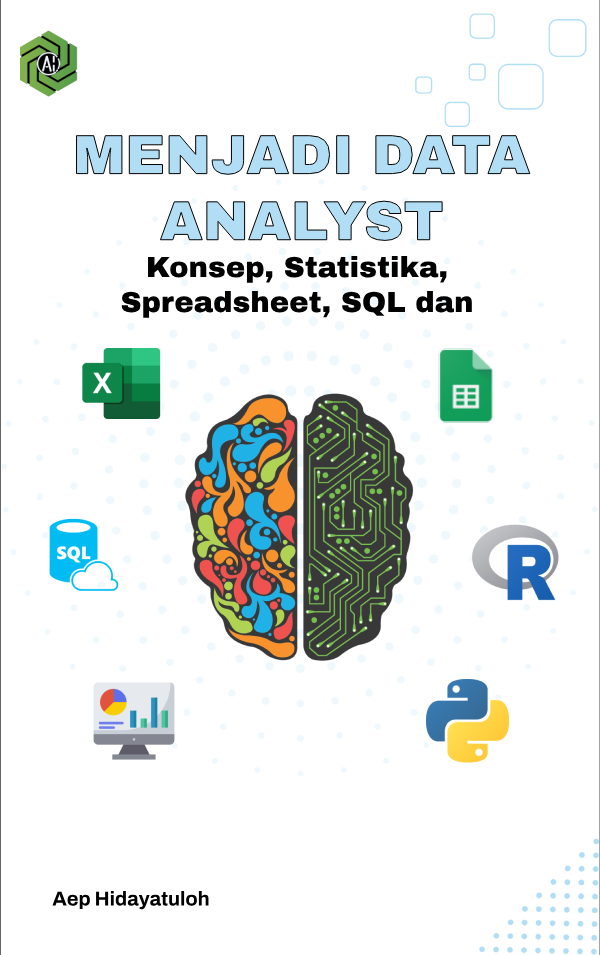
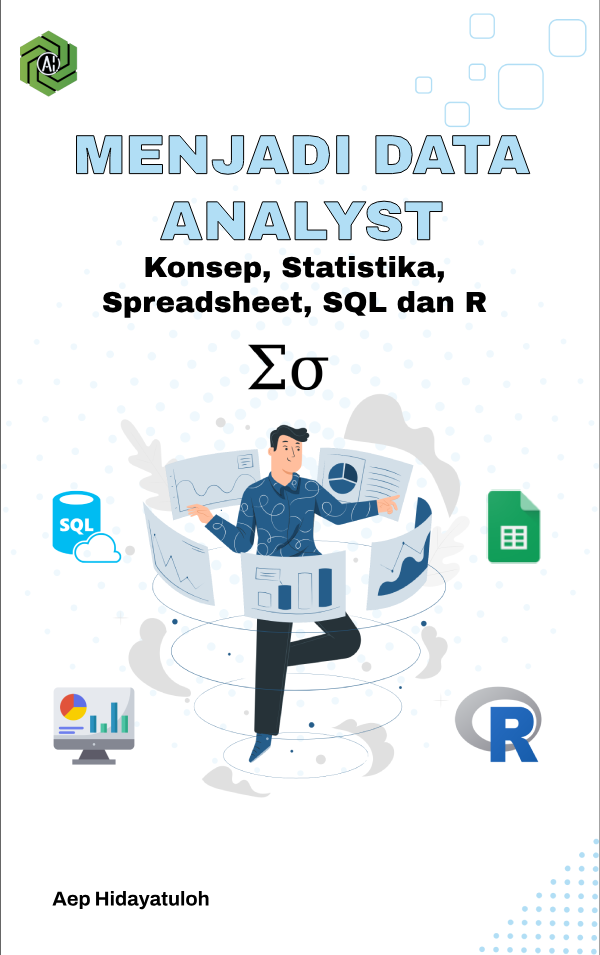
upd remove python dan ganti cover

diff --git a/_book/cover-penutup.html b/_book/cover-penutup.html
@@ -6,10 +6,8 @@
 
 <meta name="viewport" content="width=device-width, initial-scale=1.0, user-scalable=yes">
 
-<meta name="author" content="Aep Hidayatuloh">
-<meta name="dcterms.date" content="2024-07-26">
 
-<title>Menjadi Data Analyst</title>
+<title>cover-penutup – Menjadi Data Analyst</title>
 <style>
 code{white-space: pre-wrap;}
 span.smallcaps{font-variant: small-caps;}
@@ -32,7 +30,7 @@ ul.task-list li input[type="checkbox"] {
 <script src="site_libs/quarto-search/fuse.min.js"></script>
 <script src="site_libs/quarto-search/quarto-search.js"></script>
 <meta name="quarto:offset" content="./">
-<link href="./dasar.html" rel="next">
+<link href="./penulis.html" rel="prev">
 <link href="./icon.png" rel="icon" type="image/png">
 <script src="site_libs/quarto-html/quarto.js"></script>
 <script src="site_libs/quarto-html/popper.min.js"></script>
@@ -75,7 +73,7 @@ ul.task-list li input[type="checkbox"] {
 <link rel="stylesheet" href="style.css">
 </head>
 
-<body class="nav-sidebar floating">
+<body class="nav-sidebar floating fullcontent">
 
 <div id="quarto-search-results"></div>
   <header id="quarto-header" class="headroom fixed-top">
@@ -84,7 +82,7 @@ ul.task-list li input[type="checkbox"] {
       <button type="button" class="quarto-btn-toggle btn" data-bs-toggle="collapse" role="button" data-bs-target=".quarto-sidebar-collapse-item" aria-controls="quarto-sidebar" aria-expanded="false" aria-label="Toggle sidebar navigation" onclick="if (window.quartoToggleHeadroom) { window.quartoToggleHeadroom(); }">
         <i class="bi bi-layout-text-sidebar-reverse"></i>
       </button>
-        <nav class="quarto-page-breadcrumbs" aria-label="breadcrumb"><ol class="breadcrumb"><li class="breadcrumb-item"><a href="./index.html">Pengantar</a></li></ol></nav>
+        <nav class="quarto-page-breadcrumbs" aria-label="breadcrumb"><ol class="breadcrumb"><li class="breadcrumb-item"><a href="./cover-penutup.html"><span class="chapter-number">18</span>&nbsp; <span class="chapter-title">Penutup</span></a></li></ol></nav>
         <a class="flex-grow-1" role="navigation" data-bs-toggle="collapse" data-bs-target=".quarto-sidebar-collapse-item" aria-controls="quarto-sidebar" aria-expanded="false" aria-label="Toggle sidebar navigation" onclick="if (window.quartoToggleHeadroom) { window.quartoToggleHeadroom(); }">      
         </a>
       <button type="button" class="btn quarto-search-button" aria-label="Search" onclick="window.quartoOpenSearch();">
@@ -115,7 +113,7 @@ ul.task-list li input[type="checkbox"] {
   </li>
         <li class="sidebar-item">
   <div class="sidebar-item-container"> 
-  <a href="./index.html" class="sidebar-item-text sidebar-link active">
+  <a href="./index.html" class="sidebar-item-text sidebar-link">
  <span class="menu-text">Pengantar</span></a>
   </div>
 </li>
@@ -301,8 +299,8 @@ ul.task-list li input[type="checkbox"] {
 </li>
         <li class="sidebar-item">
   <div class="sidebar-item-container"> 
-  <a href="./cover-penutup.html" class="sidebar-item-text sidebar-link">
- <span class="menu-text">Penutup</span></a>
+  <a href="./cover-penutup.html" class="sidebar-item-text sidebar-link active">
+ <span class="menu-text"><span class="chapter-number">18</span>&nbsp; <span class="chapter-title">Penutup</span></span></a>
   </div>
 </li>
     </ul>
@@ -310,61 +308,18 @@ ul.task-list li input[type="checkbox"] {
 </nav>
 <div id="quarto-sidebar-glass" class="quarto-sidebar-collapse-item" data-bs-toggle="collapse" data-bs-target=".quarto-sidebar-collapse-item"></div>
 <!-- margin-sidebar -->
-    <div id="quarto-margin-sidebar" class="sidebar margin-sidebar">
-        <nav id="TOC" role="doc-toc" class="toc-active">
-    <h2 id="toc-title">Table of contents</h2>
-   
-  <ul>
-  <li><a href="#pengantar" id="toc-pengantar" class="nav-link active" data-scroll-target="#pengantar">Pengantar</a></li>
-  </ul>
-</nav>
-    </div>
+    
 <!-- main -->
 <main class="content" id="quarto-document-content">
 
-<header id="title-block-header" class="quarto-title-block default">
-<div class="quarto-title">
-<h1 class="title">Menjadi Data Analyst</h1>
-<p class="subtitle lead">Konsep, Statistika, Spreadsheet, SQL dan R</p>
-</div>
 
 
 
-<div class="quarto-title-meta">
-
-    <div>
-    <div class="quarto-title-meta-heading">Author</div>
-    <div class="quarto-title-meta-contents">
-             <p>Aep Hidayatuloh </p>
-          </div>
-  </div>
-    
-    <div>
-    <div class="quarto-title-meta-heading">Published</div>
-    <div class="quarto-title-meta-contents">
-      <p class="date">26 Jul 2024</p>
-    </div>
-  </div>
-  
-    
-  </div>
-  
+<p>Buku ini disusun sedemikian rupa sehingga memudahkan bagi Anda yang ingin mulai mempelajari tentang Data Analytics dan menjadi seorang Data Analyst. Buku ini akan menjadi panduan yang lengkap.</p>
+<p>Di awal buku ini Anda akan diajak untuk memahami cara berpikir seorang data analyst. Tentu saja Anda tidak bisa lepas dari kewajiban untuk memahami tentang Statistika sebagai fondasi mutlak untuk menjadi seorang data analyst. Tapi tenang saja! Pembahasan Statistika dibuat sederhana agar mudah dipahami dan tetap dapat digunakan sebagai bekal Anda menjadi data analyst.</p>
+<p>Anda juga akan belajar menggunakan Spreadsheet sebagai alat bantu paling fundamental ketika bekerja dengan data, memahami SQL sebagai alat untuk berkomunikasi dengan data di dalam database, menggunakan bahasa pemrograman sebagai alat yang lebih advance untuk data analysis dan cara membuat visualisasi untuk mengomunikasikan hasil analisis data yang Anda lakukan.</p>
 
 
-</header>
-
-
-
-<section id="pengantar" class="level1 unnumbered">
-<h1 class="unnumbered">Pengantar</h1><p><img src="cover.png" title="Menjadi Data Analyst" class="quarto-cover-image img-fluid"></p>
-<p>Data Analyst dan Data Scientist menjadi pekerjaan yang diinginkan banyak orang saat ini, terutama bagi lulusan baru dari universitas. Di Jobstreet tersedia <strong>lebih dari 9.000 lowongan pekerjaan dengan kata kunci “data”</strong>, termasuk data analyst, data entry, data scientist dan lain-lain dengan tingakat magang (<em>internship</em>), junior, senior hingga manager. Lowongan kerja dengan kata kunci “data analyst” sendiri ada lebih dari 1.000 lowongan pekerjaan.</p>
-<p>Mereka yang memang menempuh pendidikan yang berkaitan erat dengan data seperti Statistika dan Ilmu Komputer, atau yang tidak hubungannya sama sekali seperti lulusan Ilmu Hukum, Perikanan dan Kelautan, dan lain-lain yang ingin beralih karir menjadi data analyst atau data scientist mulai banyak bermunculan.</p>
-<p>Karena banyaknya keinginan dan kebutuhan akan pendidikan tentang data, banyak universitas atau kampus mulai mempertimbangkan atau bahkan sudah mulai untuk mengampu pendidikan yang berkaitan dengan bidang ini. Bahkan banyak lembaga penyedia pendidikan, training atau kursus yang menydiakan kesempatan bagi mereka yang ingin belajar untuk menjadi Data Analyst atau Data Scientist. Buku ini akan mengajak Anda untuk mulai memahami apa itu data analyst, kemampuan yang dibutuhkan dan disertai dengan contoh kasus dan teknis pengerjaannya yang akan menambah pemahaman dan kemampuan Anda untuk menjadi data analyst.</p>
-<p>Alat atau <em>Tools</em> yang akan sangat berguna dan biasanya digunakan dalam mengerjakan analisis data adalah Excel, SQL, dan terkadang juga menggunakan bahasa pemrograman. Bahasa Pemrograman yang biasanya digunakan dalam kegiatan analisis data adalah R atau Python. Oleh karena itu, buku ini akan mengajak Anda untuk mengenal lebih jauh tentang data analytics dan <em>tools</em> yang biasanya digunakan untuk menunjang aktivitas analisis data.</p>
-<p>Tentu saja penulis menyadari bahwa tulisan ini hanya berdasarkan pengetahuan dan pengalaman yang diketahui oleh penulis, shingga masih banyak kekurangan dan perlu perbaikan dalam berbagai hal. Jika Anda ingin berkontribusi pada tulisan ini, Anda dapat menjadi kontributor pada repository GitHub <a href="https://github.com/aephidayatuloh/data-analyst" class="uri">https://github.com/aephidayatuloh/data-analyst</a>.</p>
-
-
-</section>
 
 </main> <!-- /main -->
 <script id="quarto-html-after-body" type="application/javascript">
@@ -789,11 +744,11 @@ window.document.addEventListener("DOMContentLoaded", function (event) {
 </script>
 <nav class="page-navigation">
   <div class="nav-page nav-page-previous">
+      <a href="./penulis.html" class="pagination-link" aria-label="Tentang Penulis">
+        <i class="bi bi-arrow-left-short"></i> <span class="nav-page-text">Tentang Penulis</span>
+      </a>          
   </div>
   <div class="nav-page nav-page-next">
-      <a href="./dasar.html" class="pagination-link" aria-label="Bagian 1: Dasar Data Analytics">
-        <span class="nav-page-text">Bagian 1: Dasar Data Analytics</span> <i class="bi bi-arrow-right-short"></i>
-      </a>
   </div>
 </nav>
 </div> <!-- /content -->

diff --git a/_book/polapikir.html b/_book/polapikir.html
@@ -261,12 +261,6 @@ ul.task-list li input[type="checkbox"] {
  <span class="menu-text"><span class="chapter-number">15</span>&nbsp; <span class="chapter-title">R Programming</span></span></a>
   </div>
 </li>
-          <li class="sidebar-item">
-  <div class="sidebar-item-container"> 
-  <a href="./python.html" class="sidebar-item-text sidebar-link">
- <span class="menu-text"><span class="chapter-number">16</span>&nbsp; <span class="chapter-title">Python Programming</span></span></a>
-  </div>
-</li>
       </ul>
   </li>
         <li class="sidebar-item sidebar-item-section">
@@ -281,13 +275,13 @@ ul.task-list li input[type="checkbox"] {
           <li class="sidebar-item">
   <div class="sidebar-item-container"> 
   <a href="./visualisasi.html" class="sidebar-item-text sidebar-link">
- <span class="menu-text"><span class="chapter-number">17</span>&nbsp; <span class="chapter-title">Visualisasi</span></span></a>
+ <span class="menu-text"><span class="chapter-number">16</span>&nbsp; <span class="chapter-title">Visualisasi</span></span></a>
   </div>
 </li>
           <li class="sidebar-item">
   <div class="sidebar-item-container"> 
   <a href="./storytelling.html" class="sidebar-item-text sidebar-link">
- <span class="menu-text"><span class="chapter-number">18</span>&nbsp; <span class="chapter-title">Storytelling</span></span></a>
+ <span class="menu-text"><span class="chapter-number">17</span>&nbsp; <span class="chapter-title">Storytelling</span></span></a>
   </div>
 </li>
       </ul>
@@ -302,6 +296,12 @@ ul.task-list li input[type="checkbox"] {
   <div class="sidebar-item-container"> 
   <a href="./penulis.html" class="sidebar-item-text sidebar-link">
  <span class="menu-text">Tentang Penulis</span></a>
+  </div>
+</li>
+        <li class="sidebar-item">
+  <div class="sidebar-item-container"> 
+  <a href="./cover-penutup.html" class="sidebar-item-text sidebar-link">
+ <span class="menu-text"><span class="chapter-number">18</span>&nbsp; <span class="chapter-title">cover-penutup.html</span></span></a>
   </div>
 </li>
     </ul>

diff --git a/_book/fondasi.html b/_book/fondasi.html
@@ -261,12 +261,6 @@ ul.task-list li input[type="checkbox"] {
  <span class="menu-text"><span class="chapter-number">15</span>&nbsp; <span class="chapter-title">R Programming</span></span></a>
   </div>
 </li>
-          <li class="sidebar-item">
-  <div class="sidebar-item-container"> 
-  <a href="./python.html" class="sidebar-item-text sidebar-link">
- <span class="menu-text"><span class="chapter-number">16</span>&nbsp; <span class="chapter-title">Python Programming</span></span></a>
-  </div>
-</li>
       </ul>
   </li>
         <li class="sidebar-item sidebar-item-section">
@@ -281,13 +275,13 @@ ul.task-list li input[type="checkbox"] {
           <li class="sidebar-item">
   <div class="sidebar-item-container"> 
   <a href="./visualisasi.html" class="sidebar-item-text sidebar-link">
- <span class="menu-text"><span class="chapter-number">17</span>&nbsp; <span class="chapter-title">Visualisasi</span></span></a>
+ <span class="menu-text"><span class="chapter-number">16</span>&nbsp; <span class="chapter-title">Visualisasi</span></span></a>
   </div>
 </li>
           <li class="sidebar-item">
   <div class="sidebar-item-container"> 
   <a href="./storytelling.html" class="sidebar-item-text sidebar-link">
- <span class="menu-text"><span class="chapter-number">18</span>&nbsp; <span class="chapter-title">Storytelling</span></span></a>
+ <span class="menu-text"><span class="chapter-number">17</span>&nbsp; <span class="chapter-title">Storytelling</span></span></a>
   </div>
 </li>
       </ul>
@@ -335,6 +329,7 @@ ul.task-list li input[type="checkbox"] {
 
 
 <p>Data adalah faktor yang paling krusial ketika Anda menjadi seorang data analyst. Menjadi seorang data analyst membutuhkan pola pikir (<em>mindset</em>) yang komprehensif tentang data.</p>
+<p>Data adalah kumpulan fakta.</p>
 
 
 
